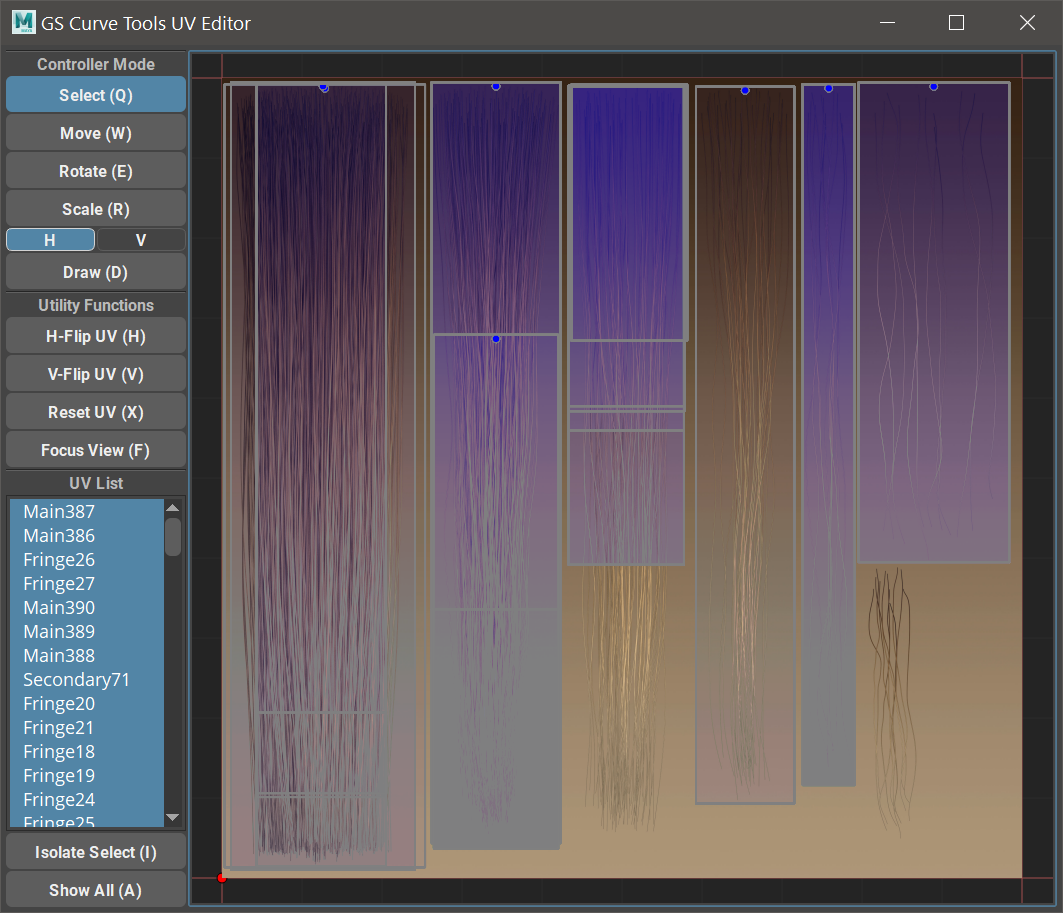
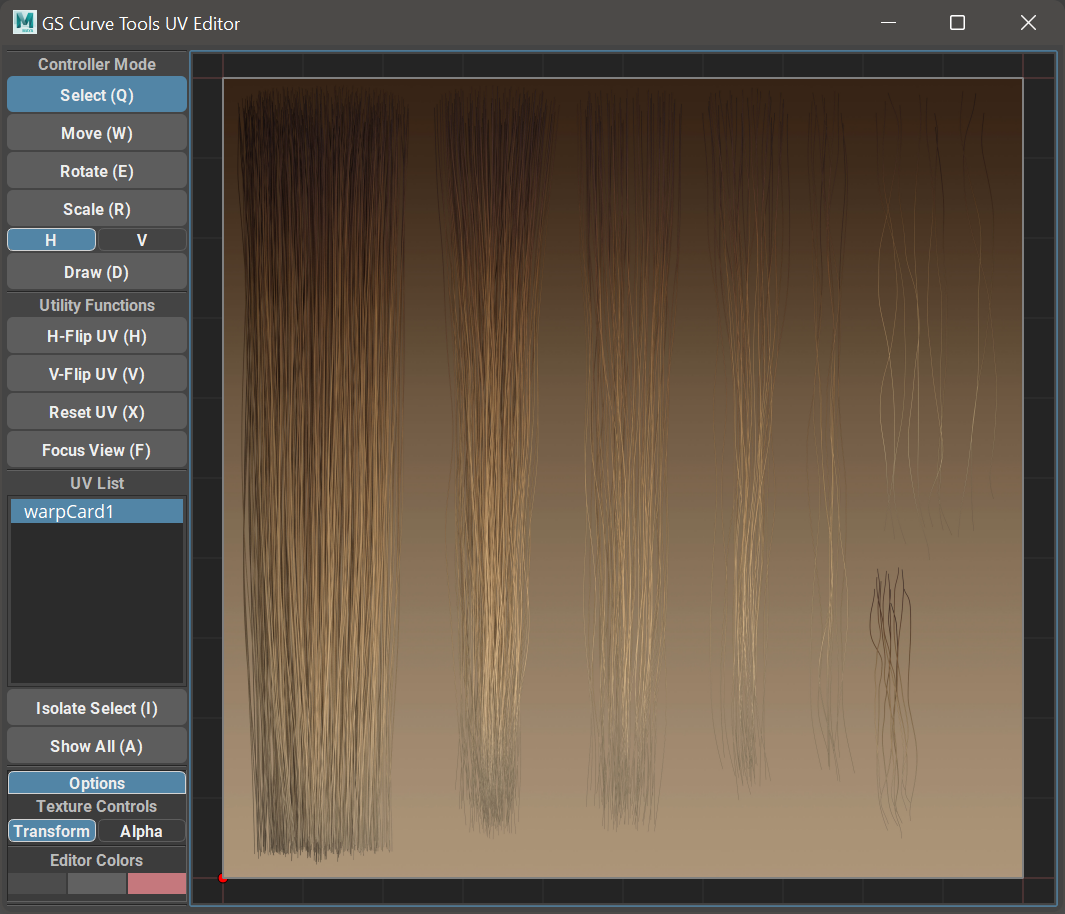
Update v1.2.5

diff --git a/docs/source/changelog.rst b/docs/source/changelog.rst
@@ -7,7 +7,32 @@ Changelog
 Version 1.2.5
 ^^^^^^^^^^^^^
 
-TBD
+**This update is recommended for all users**
+
+**New Features:**
+
+- **Layer Names** - new parameter for every layer. Regroup by Layer will now use the custom names when naming the layers. Custom names can be edited in the Layers Customization window and stored as a global preset, just like the layer colors.
+- **Layer Names & Colors** - new button on the main UI. Opens the name and color editor for layers.
+- **Full Non-Square Texture Map Support** - GS CurveTools UV editor will now properly stretch and scale non-square texture maps (diffuse and alpha map), just like the native Maya UV editor does. Coverage and Translate Frame can be used to further edit the position and scale of the texture map if Use Transforms toggle is enabled.
+- **UV Editor Texture Controls** - new section in the UV editor:
+
+    - **Transform** - this toggle will enable/disable texture map transformations based on the place2dTexture node parameters: Coverage and Translate Frame. Offset parameter is NOT supported. Both diffuse and alpha map should have the same Coverage and Translate Frame parameter for this to work.
+    - **Alpha** - this toggle will enable/disable the use of Alpha map that is connected to the Transparency plug of the material (from separate files or the same file).
+
+- **UV Editor Colors** - new section in the UV editor with 3 editable color swatches for background, grid and frame colors of the UV editor viewport.
+
+**Improvements:**
+
+- **Regroup by Layer** - will no longer use Group Name field as a default name. Group Name field is only used by the Group Curves button to set the name of the new group. Regroup by Layer will use the default name (CT_Layer#) or the name from the Layers Customization window.
+- **Changed the Default Grey Color** for layers to default (0, 0, 0) color. Reset layer will rest to this color as well.
+- **Some Tooltips** added to the UV editor.
+- **UV Editor Cache** - added Texture Map Caching to speed up the UV Editor. Texture map is loaded only once, and if there are no changes to the file it will be loaded from the cache every subsequent time this texture map is needed. Changes to the Diffuse or Alpha map will cause a reload from the disc. Before it was only reloaded if the path changed.
+
+**Bugfixes:**
+
+- **Add Selection to Layer** will now properly sync curve colors if Sync Color Layer to Layer Color is selected in the options.
+- **Zoom and Focus Events** should now properly re-render the texture map in the UV editor to match the screen resolution. Should eliminate shimmer effect on square texture maps completely.
+- **Fixed Some Lags** during zooming in the UV editor.
 
 Version 1.2.4
 ^^^^^^^^^^^^^

diff --git a/docs/source/layers-customization.rst b/docs/source/layers-customization.rst
@@ -2,9 +2,9 @@
 
 .. _colors-page:
 
-######
-Colors
-######
+######################
+Colors and Layer Names
+######################
 
 Color Mode
 ^^^^^^^^^^
@@ -44,31 +44,34 @@ By holding RMB on Colors Filter you will open the marking menu.
 - Reset Curve Colors will reset the colors of the curves to their default Maya color.
 - Custom Colors Window will open a window where the user can customize Layers color, save a preset and generate new colors.
 
-Custom Colors Window
-^^^^^^^^^^^^^^^^^^^^
+Layers Customization Window
+^^^^^^^^^^^^^^^^^^^^^^^^^^^
 
-.. figure:: images/custom_layer_colors_window.png
+.. figure:: images/layers_customization_window.png
     :class: with-shadow float-right
     :width: 200px
 
-**Custom Colors Window** holds all the controls for the color management of the Layers.
+**Layers Customization Window** holds all the controls for the color and name management of the Layers.
 
 **Gradient** section is used to generate a linear gradient from the two colors selected and the amount of rows to generate the gradient to.
 
 **Randomize** section will randomize the colors in every layer based on saturation minimum and maximum values. Value is fixed to a range of 0.3-0.7
 
-**0-39 Layer Color Pickers** allow to set any custom color to every layer separately by clicking on the color picker, randomizing this single layer (Rand) or resetting the color on the layer by clicking on Reset button.
+**0-39 Layer Color Pickers and Name Fields** allow to set any custom color and name to every layer separately by clicking on the color picker or typing in the field, randomizing this single layer color (Rand) or resetting the color and name of the layer by clicking on Reset button.
 
 **Reset All** button will reset all the layers to the default value.
 
-**Get From Layers** will load the colors from the layers to the color picker area.
+**Get From Layers** will load the colors and names from the scene layers to the window fields and color pickers.
 
-**Set To Layers** will apply the selected colors to the layers in the current document.
+**Set To Layers** will apply the selected colors and names to the layers in the current scene.
 
-**Load Preset** will load a global preset colors to the color picker area.
+**Load Preset** will load a global preset colors and names.
 
-**Save As Preset** will save current colors to a global preset that can be then loaded to any project.
+**Save As Preset** will save current colors and names to a global preset that can be then loaded to any scene.
 
+|
+|
+|
 |
 
 Syncing Curve Color to Layer Color

diff --git a/docs/source/uv-editor.rst b/docs/source/uv-editor.rst
@@ -245,3 +245,55 @@ You can easily isolate select or do any other functions with these nested cards 
 |
 |
 |
+
+Options Menu
+^^^^^^^^^^^^
+
+.. figure:: images/uv_editor/options_menu.png
+    :class: with-shadow float-right
+    :width: 300px
+
+In the options menu user can change the texture and viewport visual appearance.
+
+|
+|
+|
+|
+|
+|
+|
+|
+|
+|
+
+----
+
+.. figure:: images/place2dtexture_node.png
+    :class: with-shadow float-right
+    :width: 400px
+
+.. figure:: images/coverage_translateframe.png
+    :class: with-shadow float-right
+    :width: 400px
+
+**Transform** - this toggle will enable/disable texture map transformations based on the place2dTexture node parameters: Coverage and Translate Frame.
+
+.. warning:: **Offset** parameter is **NOT** supported. Both diffuse and alpha map should have the same Coverage and Translate Frame parameter or use the same place2dTexture node for this to work.
+
+--------
+
+**Alpha** - this toggle will enable/disable the use of Alpha map that is connected to the Transparency plug of the material (from separate files or the same file).
+
+.. important:: It is recommended for the Diffuse and Alpha map to have the same resolution and aspect ratio.
+
+--------
+
+.. figure:: images/uv_editor/options_menu.png
+    :class: with-shadow float-right
+    :width: 300px
+
+**Color Controls** - Using three color pickers you can change uv editor viewport background (1), grid (2) and frame(3) colors.
+
+The colors set here will be saved and used in every project.
+
+To reset the colors, reset the plug-in to default using CT Reset icon on the shelf.

diff --git a/docs/source/index.rst b/docs/source/index.rst
@@ -90,7 +90,7 @@ Supported Platforms
 	Card and Tube Types <cards-and-tubes>
 	Bind/Unbind Function <bind-unbind>
 	Layers <layers>
-	Colors <colors>
+	Layers Customization <layers-customization>
 	Quick Selection and Grouping <selection>
 	Importing and Exporting Curves <import-export>
 	Orient to Normals <orient-to-normals>
